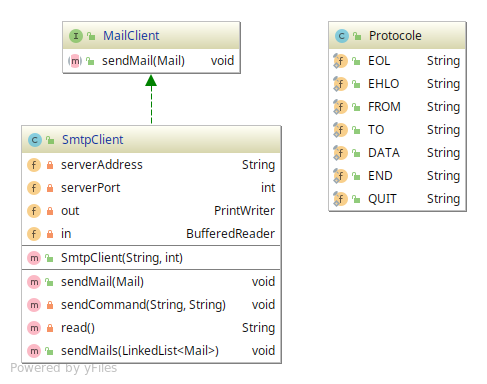
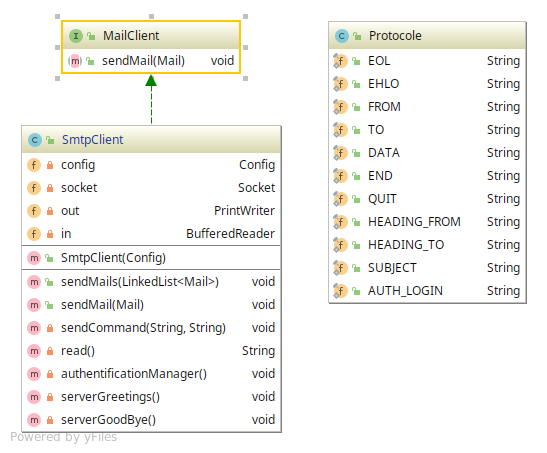
mailtrap.io Fixed, update readme and pictures

Changed region(s): [[0.0, 0.0312, 0.9856, 1.0]]

diff --git a/src/main/java/ch/heigvd/res/smtp/SmtpClient.java b/src/main/java/ch/heigvd/res/smtp/SmtpClient.java
@@ -48,7 +48,6 @@ public class SmtpClient implements MailClient {
         for(Mail m : mails){
             try {
                 sendMail(m);
-                break;
 
             } catch (IOException e) {
                 e.printStackTrace();
@@ -97,9 +96,8 @@ public class SmtpClient implements MailClient {
             data += m + ',';
         }
         data += EOL;
-        data += SUBJECT + mail.getConent().getSubject()+EOL;
+        data += SUBJECT + mail.getConent().getSubject()+EOL+EOL; // need to add additional line between subject and body
         data += mail.getConent().getBody() + EOL;
-
 
         sendCommand("", data);
         sendCommand(END,"");

diff --git a/README.md b/README.md
@@ -53,12 +53,25 @@ To run a prank campaign you have to modify 3 files :
 3. **config.txt**, in this file you can parametrize SMTP server address, SMTP server Port, number of groups you want to create. In one group, one sender victims is chosen and the other are receiver victim. Default values are :
 
    ```bash
-   serverAdress=localhost
+   serverAddress=localhost
    serverPort=2525
    nbGroup=2
+   authlogin=false
    ```
 
-   
+
+If you want to use **authentication**, you need add *username* and *passwd* to the configuration file. 
+
+```bash
+    serverAddress=smtp.mailtrap.io
+    serverPort=2525
+    nbGroup=2
+    authlogin=true
+    username=a023b304611e91
+    password=7dc21f84a07ee5
+```
+
+Please take note that the username and the passowd are encoded into *Base64* before being sent.
 
 #### <u>Description of the implementation</u>
 
